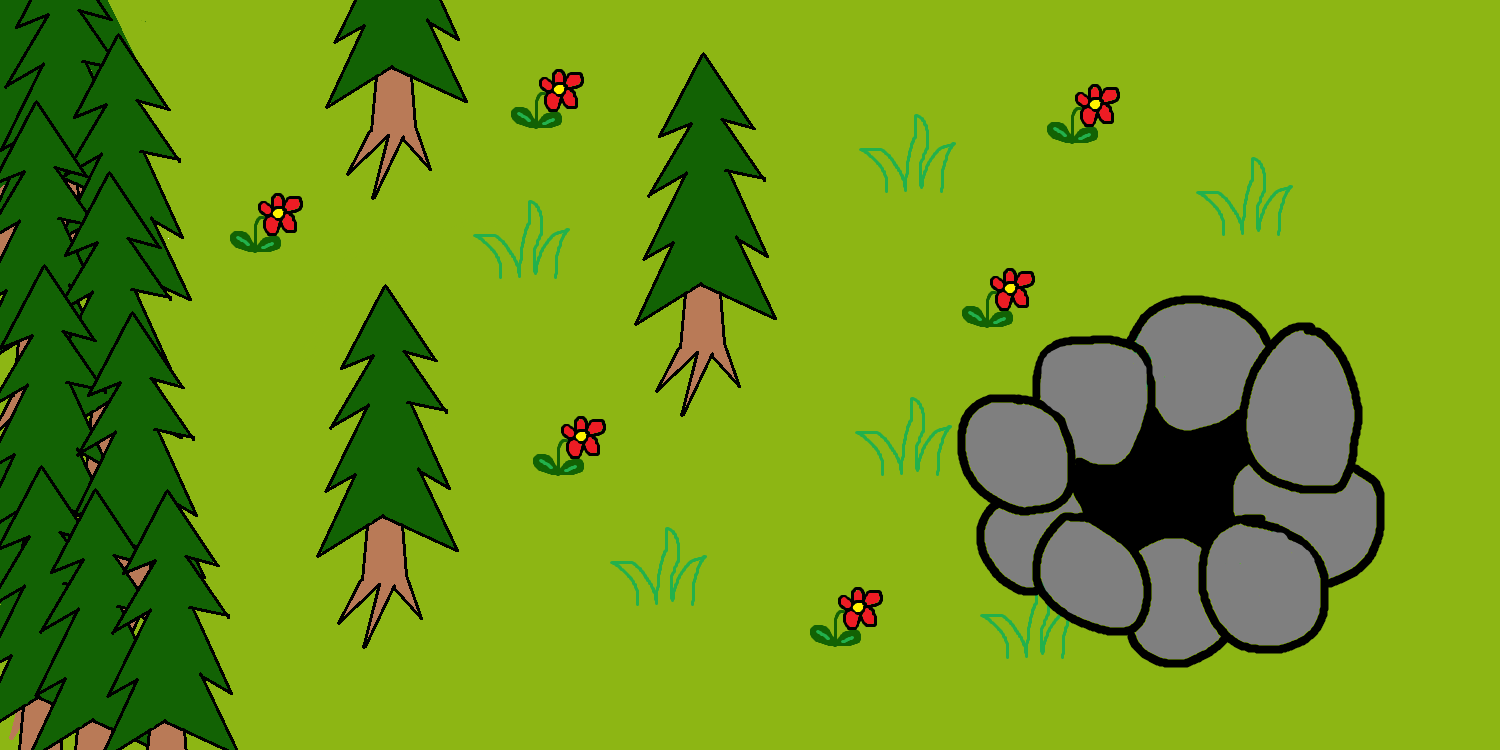
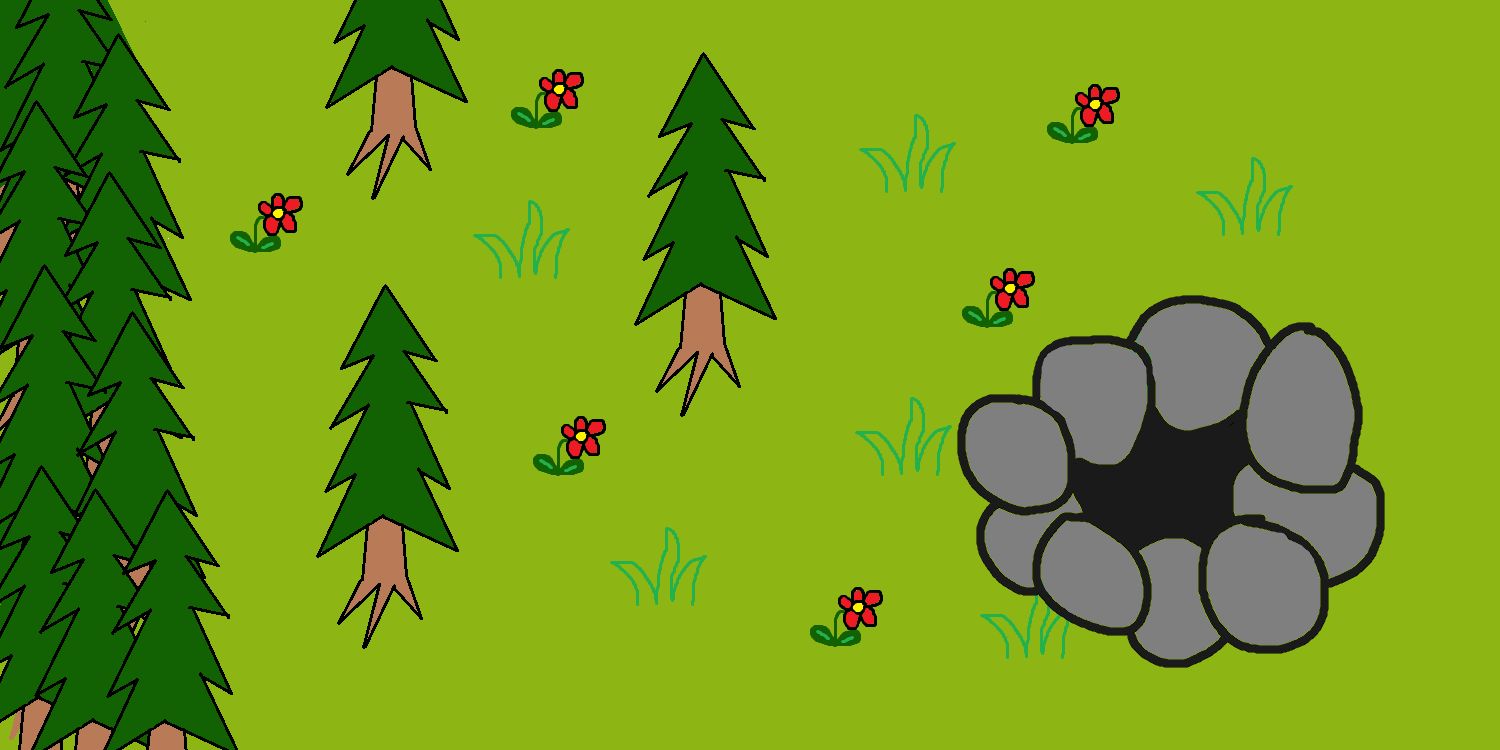
Added lighter caves

diff --git a/models/userSchema.js b/models/userSchema.js
@@ -21,54 +21,54 @@ const userSchema = new mongoose.Schema(
                 Right: { type: Boolean, default: true }
             },
             Bug: {
-                Dragonfly: { type: Boolean, default: false },                   //
-                Beetle: { type: Boolean, default: false },                      //
-                Snail: { type: Boolean, default: false },                       //
-                Caterpillar: { type: Boolean, default: false },                 //
-                Skater: { type: Boolean, default: false },                      //
-                Mosquito: { type: Boolean, default: false },                    //
-                Antlion: { type: Boolean, default: false },                     //
-                Ant: { type: Boolean, default: false },                         //
-                Bee: { type: Boolean, default: false },                         //
-                Moth: { type: Boolean, default: false },                        //
-                Butterfly: { type: Boolean, default: false },                   //
-                Wasp: { type: Boolean, default: false },                        //
-                Spider: { type: Boolean, default: false },                      //
+                Dragonfly: { type: Boolean, default: false },  
+                Beetle: { type: Boolean, default: false },     
+                Snail: { type: Boolean, default: false },      
+                Caterpillar: { type: Boolean, default: false },
+                Skater: { type: Boolean, default: false },     
+                Mosquito: { type: Boolean, default: false },   
+                Antlion: { type: Boolean, default: false },    
+                Ant: { type: Boolean, default: false },        
+                Bee: { type: Boolean, default: false },        
+                Moth: { type: Boolean, default: false },       
+                Butterfly: { type: Boolean, default: false },  
+                Wasp: { type: Boolean, default: false },       
+                Spider: { type: Boolean, default: false },     
                 Ladybug: { type: Boolean, default: false },
-                Walkingstick: { type: Boolean, default: false },                //
-                ScarabBeetle: { type: Boolean, default: false },                //
-                StinkBug: { type: Boolean, default: false },                    //
-                Mantis: { type: Boolean, default: false },                      //
-                FlowerMantisRed: { type: Boolean, default: false },             //
-                FlowerMantisWhite: { type: Boolean, default: false },           //
-                FlowerMantisYellow: { type: Boolean, default: false },          //
-                Crawdad: { type: Boolean, default: false },                     //
-                Termite: { type: Boolean, default: false },                     //
-                Cockroach: { type: Boolean, default: false },                   //
-                Worm: { type: Boolean, default: false },                        //
-                Skink: { type: Boolean, default: false },                       //
-                Newt: { type: Boolean, default: false },                        //
-                Frog: { type: Boolean, default: false },                        //
-                Salamander: { type: Boolean, default: false },                  //
-                Turtle: { type: Boolean, default: false },                      //
-                Hummingbird: { type: Boolean, default: false },                 //
-                Songbird: { type: Boolean, default: false },                    //
-                TropicalFish: { type: Boolean, default: false },                //
-                Scorpion: { type: Boolean, default: false },                    //
-                MythicalScarabBeetle: { type: Boolean, default: false },        //
-                Amoeba: { type: Boolean, default: false },                      //Frozen
-                LightningBug: { type: Boolean, default: false },                //
-                Firefly: { type: Boolean, default: false },                     //
-                Slug: { type: Boolean, default: false },                        //
-                JumpingSpider: { type: Boolean, default: false },               //
-                BronzeMantis: { type: Boolean, default: false },                //
-                Fly: { type: Boolean, default: false },                         //
-                HermitCrab: { type: Boolean, default: false },                  //
-                Mudskip: { type: Boolean, default: false },                     //
-                Lobster: { type: Boolean, default: false },                     //
-                Lizard: { type: Boolean, default: false },                      //
-                Anglerfish: { type: Boolean, default: false },                  //
-                Stingray: { type: Boolean, default: false },                    //
+                Walkingstick: { type: Boolean, default: false },                
+                ScarabBeetle: { type: Boolean, default: false },                
+                StinkBug: { type: Boolean, default: false },                    
+                Mantis: { type: Boolean, default: false },                      
+                FlowerMantisRed: { type: Boolean, default: false },             
+                FlowerMantisWhite: { type: Boolean, default: false },           
+                FlowerMantisYellow: { type: Boolean, default: false },          
+                Crawdad: { type: Boolean, default: false },                     
+                Termite: { type: Boolean, default: false },                     
+                Cockroach: { type: Boolean, default: false },                   
+                Worm: { type: Boolean, default: false },                        
+                Skink: { type: Boolean, default: false },                       
+                Newt: { type: Boolean, default: false },                        
+                Frog: { type: Boolean, default: false },                        
+                Salamander: { type: Boolean, default: false },                  
+                Turtle: { type: Boolean, default: false },                      
+                Hummingbird: { type: Boolean, default: false },                 
+                Songbird: { type: Boolean, default: false },                    
+                TropicalFish: { type: Boolean, default: false },                
+                Scorpion: { type: Boolean, default: false },                    
+                MythicalScarabBeetle: { type: Boolean, default: false },        
+                Amoeba: { type: Boolean, default: false },
+                LightningBug: { type: Boolean, default: false },                
+                Firefly: { type: Boolean, default: false },                     
+                Slug: { type: Boolean, default: false },                        
+                JumpingSpider: { type: Boolean, default: false },               
+                BronzeMantis: { type: Boolean, default: false },                
+                Fly: { type: Boolean, default: false },                         
+                HermitCrab: { type: Boolean, default: false },                  
+                Mudskip: { type: Boolean, default: false },                     
+                Lobster: { type: Boolean, default: false },                     
+                Lizard: { type: Boolean, default: false },                      
+                Anglerfish: { type: Boolean, default: false },                  
+                Stingray: { type: Boolean, default: false },
                 Millipede: { type: Boolean, default: false }
             }
         }

diff --git a/controllers/GameController.js b/controllers/GameController.js
@@ -19,6 +19,57 @@ exports.putUpdateUserInGame = function (req, res) {
                 Downward: req.body.Movement.Downward,
                 Left: req.body.Movement.Left,
                 Right: req.body.Movement.Right
+            },
+            Bug: {
+                Dragonfly: req.body.Bug.Dragonfly,
+                Beetle: req.body.Bug.Beetle,
+                Snail: req.body.Bug.Snail,
+                Caterpillar: req.body.Bug.Caterpillar,
+                Skater: req.body.Bug.Skater,
+                Mosquito: req.body.Bug.Mosquito,
+                Antlion: req.body.Bug.Antlion,
+                Ant: req.body.Bug.Ant,
+                Bee: req.body.Bug.Bee,
+                Moth: req.body.Bug.Moth,
+                Butterfly: req.body.Bug.Butterfly,
+                Wasp: req.body.Bug.Wasp,
+                Spider: req.body.Bug.Spider,
+                Ladybug: req.body.Bug.Ladybug,
+                Walkingstick: req.body.Bug.Walkingstick,
+                ScarabBeetle: req.body.Bug.ScarabBeetle,
+                StinkBug: req.body.Bug.StinkBug,
+                Mantis: req.body.Bug.Mantis,
+                FlowerMantisRed: req.body.Bug.FlowerMantisRed,
+                FlowerMantisWhite: req.body.Bug.FlowerMantisWhite,
+                FlowerMantisYellow: req.body.Bug.FlowerMantisYellow,
+                Crawdad: req.body.Bug.Crawdad,
+                Termite: req.body.Bug.Termite,
+                Cockroach: req.body.Bug.Cockroach,
+                Worm: req.body.Bug.Worm,
+                Skink: req.body.Bug.Skink,
+                Newt: req.body.Bug.Newt,
+                Frog: req.body.Bug.Frog,
+                Salamander: req.body.Bug.Salamander,
+                Turtle: req.body.Bug.Turtle,
+                Hummingbird: req.body.Bug.Hummingbird,
+                Songbird: req.body.Bug.Songbird,
+                TropicalFish: req.body.Bug.TropicalFish,
+                Scorpion: req.body.Bug.Scorpion,
+                MythicalScarabBeetle: req.body.Bug.MythicalScarabBeetle,
+                Amoeba: req.body.Bug.Amoeba,
+                LightningBug: req.body.Bug.LightningBug,
+                Firefly: req.body.Bug.Firefly,
+                Slug: req.body.Bug.Slug,
+                JumpingSpider: req.body.Bug.JumpingSpider,
+                BronzeMantis: req.body.Bug.BronzeMantis,
+                Fly: req.body.Bug.Fly,
+                HermitCrab: req.body.Bug.HermitCrab,
+                Mudskip: req.body.Bug.Mudskip,
+                Lobster: req.body.Bug.Lobster,
+                Lizard: req.body.Bug.Lizard,
+                Anglerfish: req.body.Bug.Anglerfish,
+                Stingray: req.body.Bug.Stingray,
+                Millipede: req.body.Bug.Millipede
             }
         }
     };
